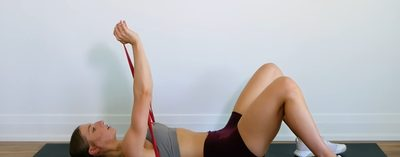
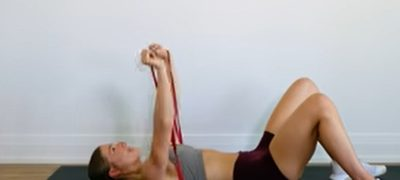
Add files via upload

Changed region(s): [[0.0, 0.1274, 1.0, 1.0], [0.0, 0.7134, 0.06, 0.7389], [0.51, 0.7134, 0.54, 0.7389]]

diff --git a/sw.js b/sw.js
@@ -1,6 +1,6 @@
 self.addEventListener("install", (event) => {
   event.waitUntil(
-    caches.open("exercise-cache-v6").then(cache => {
+    caches.open("exercise-cache-v7").then(cache => {
       return cache.addAll([
         "./",
         "index.html",
@@ -29,7 +29,8 @@ self.addEventListener("install", (event) => {
         "images/chest-flies-2.jpg",
         "images/chest-flies-3.jpg",
         "images/chest-flies-ground-1.jpg",
-        "images/chest-flies-ground-2.jpg"
+        "images/chest-flies-ground-2.jpg",
+        "images/chest-flies-ground-3.jpg"
       ]);
     })
   );
@@ -38,7 +39,7 @@ self.addEventListener("install", (event) => {
 self.addEventListener("activate", (event) => {
   event.waitUntil(
     caches.keys().then(keys =>
-      Promise.all(keys.filter(k => k !== "exercise-cache-v6").map(k => caches.delete(k)))
+      Promise.all(keys.filter(k => k !== "exercise-cache-v7").map(k => caches.delete(k)))
     )
   );
 });

diff --git a/app.js b/app.js
@@ -250,6 +250,8 @@ const FLIPBOOKS = {
   ],
   "chest-flies-ground": [
     "images/chest-flies-ground-1.jpg",
+    "images/chest-flies-ground-2.jpg",
+    "images/chest-flies-ground-3.jpg",
     "images/chest-flies-ground-2.jpg"
   ],
 };
